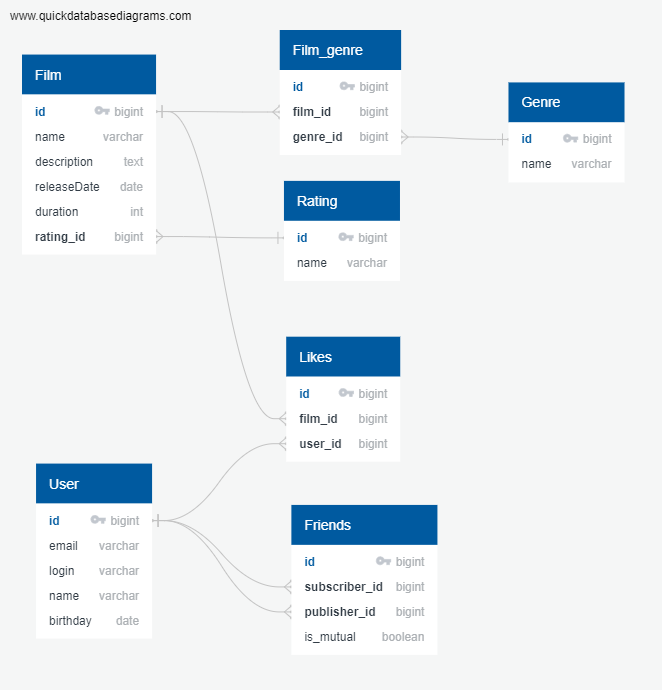
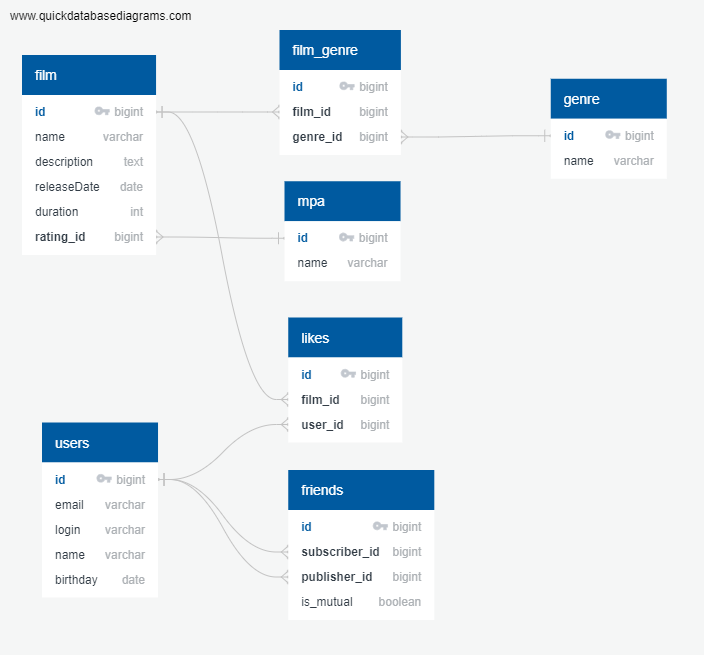
feat: добавить запросы создания бд

diff --git a/src/main/java/ru/yandex/practicum/filmorate/storage/db/GenreDpStorage.java b/src/main/java/ru/yandex/practicum/filmorate/storage/db/GenreDpStorage.java
@@ -1,0 +1,41 @@
+package ru.yandex.practicum.filmorate.storage.db;
+
+import lombok.RequiredArgsConstructor;
+import org.springframework.beans.factory.annotation.Autowired;
+import org.springframework.jdbc.core.JdbcTemplate;
+import org.springframework.stereotype.Component;
+import ru.yandex.practicum.filmorate.model.Genre;
+import ru.yandex.practicum.filmorate.model.Mpa;
+import ru.yandex.practicum.filmorate.storage.GenreStorage;
+
+import java.sql.ResultSet;
+import java.sql.SQLException;
+import java.util.Collection;
+import java.util.Optional;
+
+@Component
+@RequiredArgsConstructor(onConstructor = @__(@Autowired))
+public class GenreDpStorage implements GenreStorage {
+    private static final String fieldId = "id";
+    private static final String fieldName = "name";
+
+    private final JdbcTemplate jdbcTemplate;
+
+    @Override
+    public Collection<Genre> getAllGenres() {
+        String sql = "SELECT id, name FROM genre;";
+        return jdbcTemplate.query(sql, (rs, rowNum) -> makeGenre(rs));
+    }
+
+    @Override
+    public Optional<Genre> getGenreById(long id) {
+        String sql = "SELECT id, name FROM genre WHERE id = ?;";
+        return jdbcTemplate
+                .queryForStream(sql, (rs, rowNum) -> makeGenre(rs), id)
+                .findFirst();
+    }
+
+    private static Genre makeGenre(ResultSet resultSet) throws SQLException {
+        return new Genre(resultSet.getLong(fieldId), resultSet.getString(fieldName));
+    }
+}

diff --git a/src/main/java/ru/yandex/practicum/filmorate/storage/db/MpaDpStorage.java b/src/main/java/ru/yandex/practicum/filmorate/storage/db/MpaDpStorage.java
@@ -1,0 +1,40 @@
+package ru.yandex.practicum.filmorate.storage.db;
+
+import lombok.RequiredArgsConstructor;
+import org.springframework.beans.factory.annotation.Autowired;
+import org.springframework.jdbc.core.JdbcTemplate;
+import org.springframework.stereotype.Component;
+import ru.yandex.practicum.filmorate.model.Mpa;
+import ru.yandex.practicum.filmorate.storage.MpaStorage;
+
+import java.sql.ResultSet;
+import java.sql.SQLException;
+import java.util.Collection;
+import java.util.Optional;
+
+@Component
+@RequiredArgsConstructor(onConstructor = @__(@Autowired))
+public class MpaDpStorage implements MpaStorage {
+    private static final String fieldId = "id";
+    private static final String fieldName = "name";
+
+    private final JdbcTemplate jdbcTemplate;
+
+    @Override
+    public Collection<Mpa> getAllMpa() {
+        String sql = "SELECT id, name FROM mpa;";
+        return jdbcTemplate.query(sql, (rs, rowNum) -> makeMpa(rs));
+    }
+
+    @Override
+    public Optional<Mpa> getMpaById(long id) {
+        String sql = "SELECT id, name FROM mpa WHERE id = ?;";
+        return jdbcTemplate
+                .queryForStream(sql, (rs, rowNum) -> makeMpa(rs), id)
+                .findFirst();
+    }
+
+    private static Mpa makeMpa(ResultSet resultSet) throws SQLException {
+        return new Mpa(resultSet.getLong(fieldId), resultSet.getString(fieldName));
+    }
+}

diff --git a/src/main/java/ru/yandex/practicum/filmorate/controller/GenreController.java b/src/main/java/ru/yandex/practicum/filmorate/controller/GenreController.java
@@ -1,0 +1,33 @@
+package ru.yandex.practicum.filmorate.controller;
+
+import lombok.RequiredArgsConstructor;
+import org.springframework.beans.factory.annotation.Autowired;
+import org.springframework.web.bind.annotation.GetMapping;
+import org.springframework.web.bind.annotation.PathVariable;
+import org.springframework.web.bind.annotation.RequestMapping;
+import org.springframework.web.bind.annotation.RestController;
+import ru.yandex.practicum.filmorate.exception.NotFoundException;
+import ru.yandex.practicum.filmorate.model.Genre;
+import ru.yandex.practicum.filmorate.model.Mpa;
+import ru.yandex.practicum.filmorate.storage.GenreStorage;
+
+import java.util.Collection;
+
+@RestController
+@RequestMapping("/genres")
+@RequiredArgsConstructor(onConstructor = @__(@Autowired))
+public class GenreController {
+    private final GenreStorage genreStorage;
+
+    @GetMapping("/{id}")
+    public Genre getGenreById(@PathVariable long id) {
+        return genreStorage.getGenreById(id)
+                .orElseThrow(() ->
+                        new NotFoundException(String.format("Genre with id=%s not found", id)));
+    }
+
+    @GetMapping
+    public Collection<Genre> getAllMpa() {
+        return genreStorage.getAllGenres();
+    }
+}

diff --git a/src/main/java/ru/yandex/practicum/filmorate/controller/MpaController.java b/src/main/java/ru/yandex/practicum/filmorate/controller/MpaController.java
@@ -1,0 +1,32 @@
+package ru.yandex.practicum.filmorate.controller;
+
+import lombok.RequiredArgsConstructor;
+import org.springframework.beans.factory.annotation.Autowired;
+import org.springframework.web.bind.annotation.GetMapping;
+import org.springframework.web.bind.annotation.PathVariable;
+import org.springframework.web.bind.annotation.RequestMapping;
+import org.springframework.web.bind.annotation.RestController;
+import ru.yandex.practicum.filmorate.exception.NotFoundException;
+import ru.yandex.practicum.filmorate.model.Mpa;
+import ru.yandex.practicum.filmorate.storage.MpaStorage;
+
+import java.util.Collection;
+
+@RestController
+@RequestMapping("/mpa")
+@RequiredArgsConstructor(onConstructor = @__(@Autowired))
+public class MpaController {
+    private final MpaStorage mpaStorage;
+
+    @GetMapping("/{id}")
+    public Mpa getMpaById(@PathVariable long id) {
+        return mpaStorage.getMpaById(id)
+                .orElseThrow(() ->
+                        new NotFoundException(String.format("MPA rating with id=%s not found", id)));
+    }
+
+    @GetMapping
+    public Collection<Mpa> getAllMpa() {
+        return mpaStorage.getAllMpa();
+    }
+}

diff --git a/src/main/java/ru/yandex/practicum/filmorate/model/Film.java b/src/main/java/ru/yandex/practicum/filmorate/model/Film.java
@@ -1,21 +1,24 @@
 package ru.yandex.practicum.filmorate.model;
 
+import lombok.Builder;
 import lombok.Value;
 import lombok.With;
-import lombok.experimental.NonFinal;
 
 import javax.validation.constraints.NotBlank;
 import javax.validation.constraints.Positive;
 import javax.validation.constraints.Size;
 import java.time.LocalDate;
+import java.util.Collection;
+import java.util.List;
 
 @Value
+@Builder
 public class Film {
 
     private static final int MAX_FILM_DESCRIPTION_LENGTH = 200;
     private final static String MIN_FILM_RELEASE_DATE = "1895-12-28";
 
-    @NonFinal @With
+    @With
     long id;                   // идентификатор
 
     @NotBlank(message = "Film name is blank")
@@ -31,4 +34,8 @@ public class Film {
 
     @Positive(message = "Film duration is not positive")
     int duration;      // продолжительность
+
+    @Builder.Default Mpa mpa = null;
+
+    @Builder.Default Collection<Genre> genres = List.of();
 }

diff --git a/src/main/java/ru/yandex/practicum/filmorate/controller/UserController.java b/src/main/java/ru/yandex/practicum/filmorate/controller/UserController.java
@@ -1,5 +1,6 @@
 package ru.yandex.practicum.filmorate.controller;
 
+import lombok.RequiredArgsConstructor;
 import lombok.extern.slf4j.Slf4j;
 import org.springframework.beans.factory.annotation.Autowired;
 import org.springframework.web.bind.annotation.*;
@@ -11,15 +12,16 @@ import java.util.Collection;
 
 @RestController
 @RequestMapping("/users")
+@RequiredArgsConstructor(onConstructor = @__(@Autowired))
 @Slf4j
 public class UserController {
 
     private final UserService userService;
 
-    @Autowired
-    public UserController(final UserService userService) {
-        this.userService = userService;
-    }
+//    @Autowired
+//    public UserController(final UserService userService) {
+//        this.userService = userService;
+//    }
 
     @GetMapping
     public Collection<User> getAllUsers() {

diff --git a/src/main/java/ru/yandex/practicum/filmorate/service/FilmService.java b/src/main/java/ru/yandex/practicum/filmorate/service/FilmService.java
@@ -2,6 +2,7 @@ package ru.yandex.practicum.filmorate.service;
 
 import lombok.RequiredArgsConstructor;
 import lombok.extern.slf4j.Slf4j;
+import org.springframework.beans.factory.annotation.Autowired;
 import org.springframework.stereotype.Service;
 import ru.yandex.practicum.filmorate.exception.NotFoundException;
 import ru.yandex.practicum.filmorate.model.Film;
@@ -14,7 +15,7 @@ import java.util.stream.Collectors;
 
 @Slf4j
 @Service
-@RequiredArgsConstructor
+@RequiredArgsConstructor(onConstructor = @__(@Autowired))
 public class FilmService {
     private final FilmStorage filmStorage;
     private final UserStorage userStorage;

diff --git a/src/main/java/ru/yandex/practicum/filmorate/service/UserService.java b/src/main/java/ru/yandex/practicum/filmorate/service/UserService.java
@@ -2,6 +2,7 @@ package ru.yandex.practicum.filmorate.service;
 
 import lombok.RequiredArgsConstructor;
 import lombok.extern.slf4j.Slf4j;
+import org.springframework.beans.factory.annotation.Autowired;
 import org.springframework.stereotype.Service;
 import ru.yandex.practicum.filmorate.exception.NotFoundException;
 import ru.yandex.practicum.filmorate.model.User;
@@ -12,7 +13,7 @@ import java.util.stream.Collectors;
 
 @Slf4j
 @Service
-@RequiredArgsConstructor
+@RequiredArgsConstructor(onConstructor = @__(@Autowired))
 public class UserService {
 
     private final UserStorage userStorage;

diff --git a/src/main/java/ru/yandex/practicum/filmorate/controller/FilmController.java b/src/main/java/ru/yandex/practicum/filmorate/controller/FilmController.java
@@ -1,6 +1,7 @@
 package ru.yandex.practicum.filmorate.controller;
 
 import lombok.RequiredArgsConstructor;
+import org.springframework.beans.factory.annotation.Autowired;
 import org.springframework.validation.annotation.Validated;
 import org.springframework.web.bind.annotation.*;
 import ru.yandex.practicum.filmorate.model.Film;
@@ -12,7 +13,7 @@ import java.util.Collection;
 
 @RestController
 @RequestMapping("/films")
-@RequiredArgsConstructor
+@RequiredArgsConstructor(onConstructor = @__(@Autowired))
 @Validated
 public class FilmController {
 

diff --git a/src/main/java/ru/yandex/practicum/filmorate/storage/GenreStorage.java b/src/main/java/ru/yandex/practicum/filmorate/storage/GenreStorage.java
@@ -1,0 +1,13 @@
+package ru.yandex.practicum.filmorate.storage;
+
+import ru.yandex.practicum.filmorate.model.Genre;
+import ru.yandex.practicum.filmorate.model.Mpa;
+
+import java.util.Collection;
+import java.util.Optional;
+
+public interface GenreStorage {
+    Collection<Genre> getAllGenres();
+
+    Optional<Genre> getGenreById(long id);
+}

diff --git a/src/main/java/ru/yandex/practicum/filmorate/storage/MpaStorage.java b/src/main/java/ru/yandex/practicum/filmorate/storage/MpaStorage.java
@@ -1,0 +1,12 @@
+package ru.yandex.practicum.filmorate.storage;
+
+import ru.yandex.practicum.filmorate.model.Mpa;
+
+import java.util.Collection;
+import java.util.Optional;
+
+public interface MpaStorage {
+    Collection<Mpa> getAllMpa();
+
+    Optional<Mpa> getMpaById(long id);
+}

diff --git a/src/main/java/ru/yandex/practicum/filmorate/model/User.java b/src/main/java/ru/yandex/practicum/filmorate/model/User.java
@@ -10,7 +10,7 @@ import java.time.LocalDate;
 @Value
 public class User {
 
-    @NonFinal @With
+    @With
     long id;                       // идентификатор
 
     @NotBlank(message = "User email is blank")
